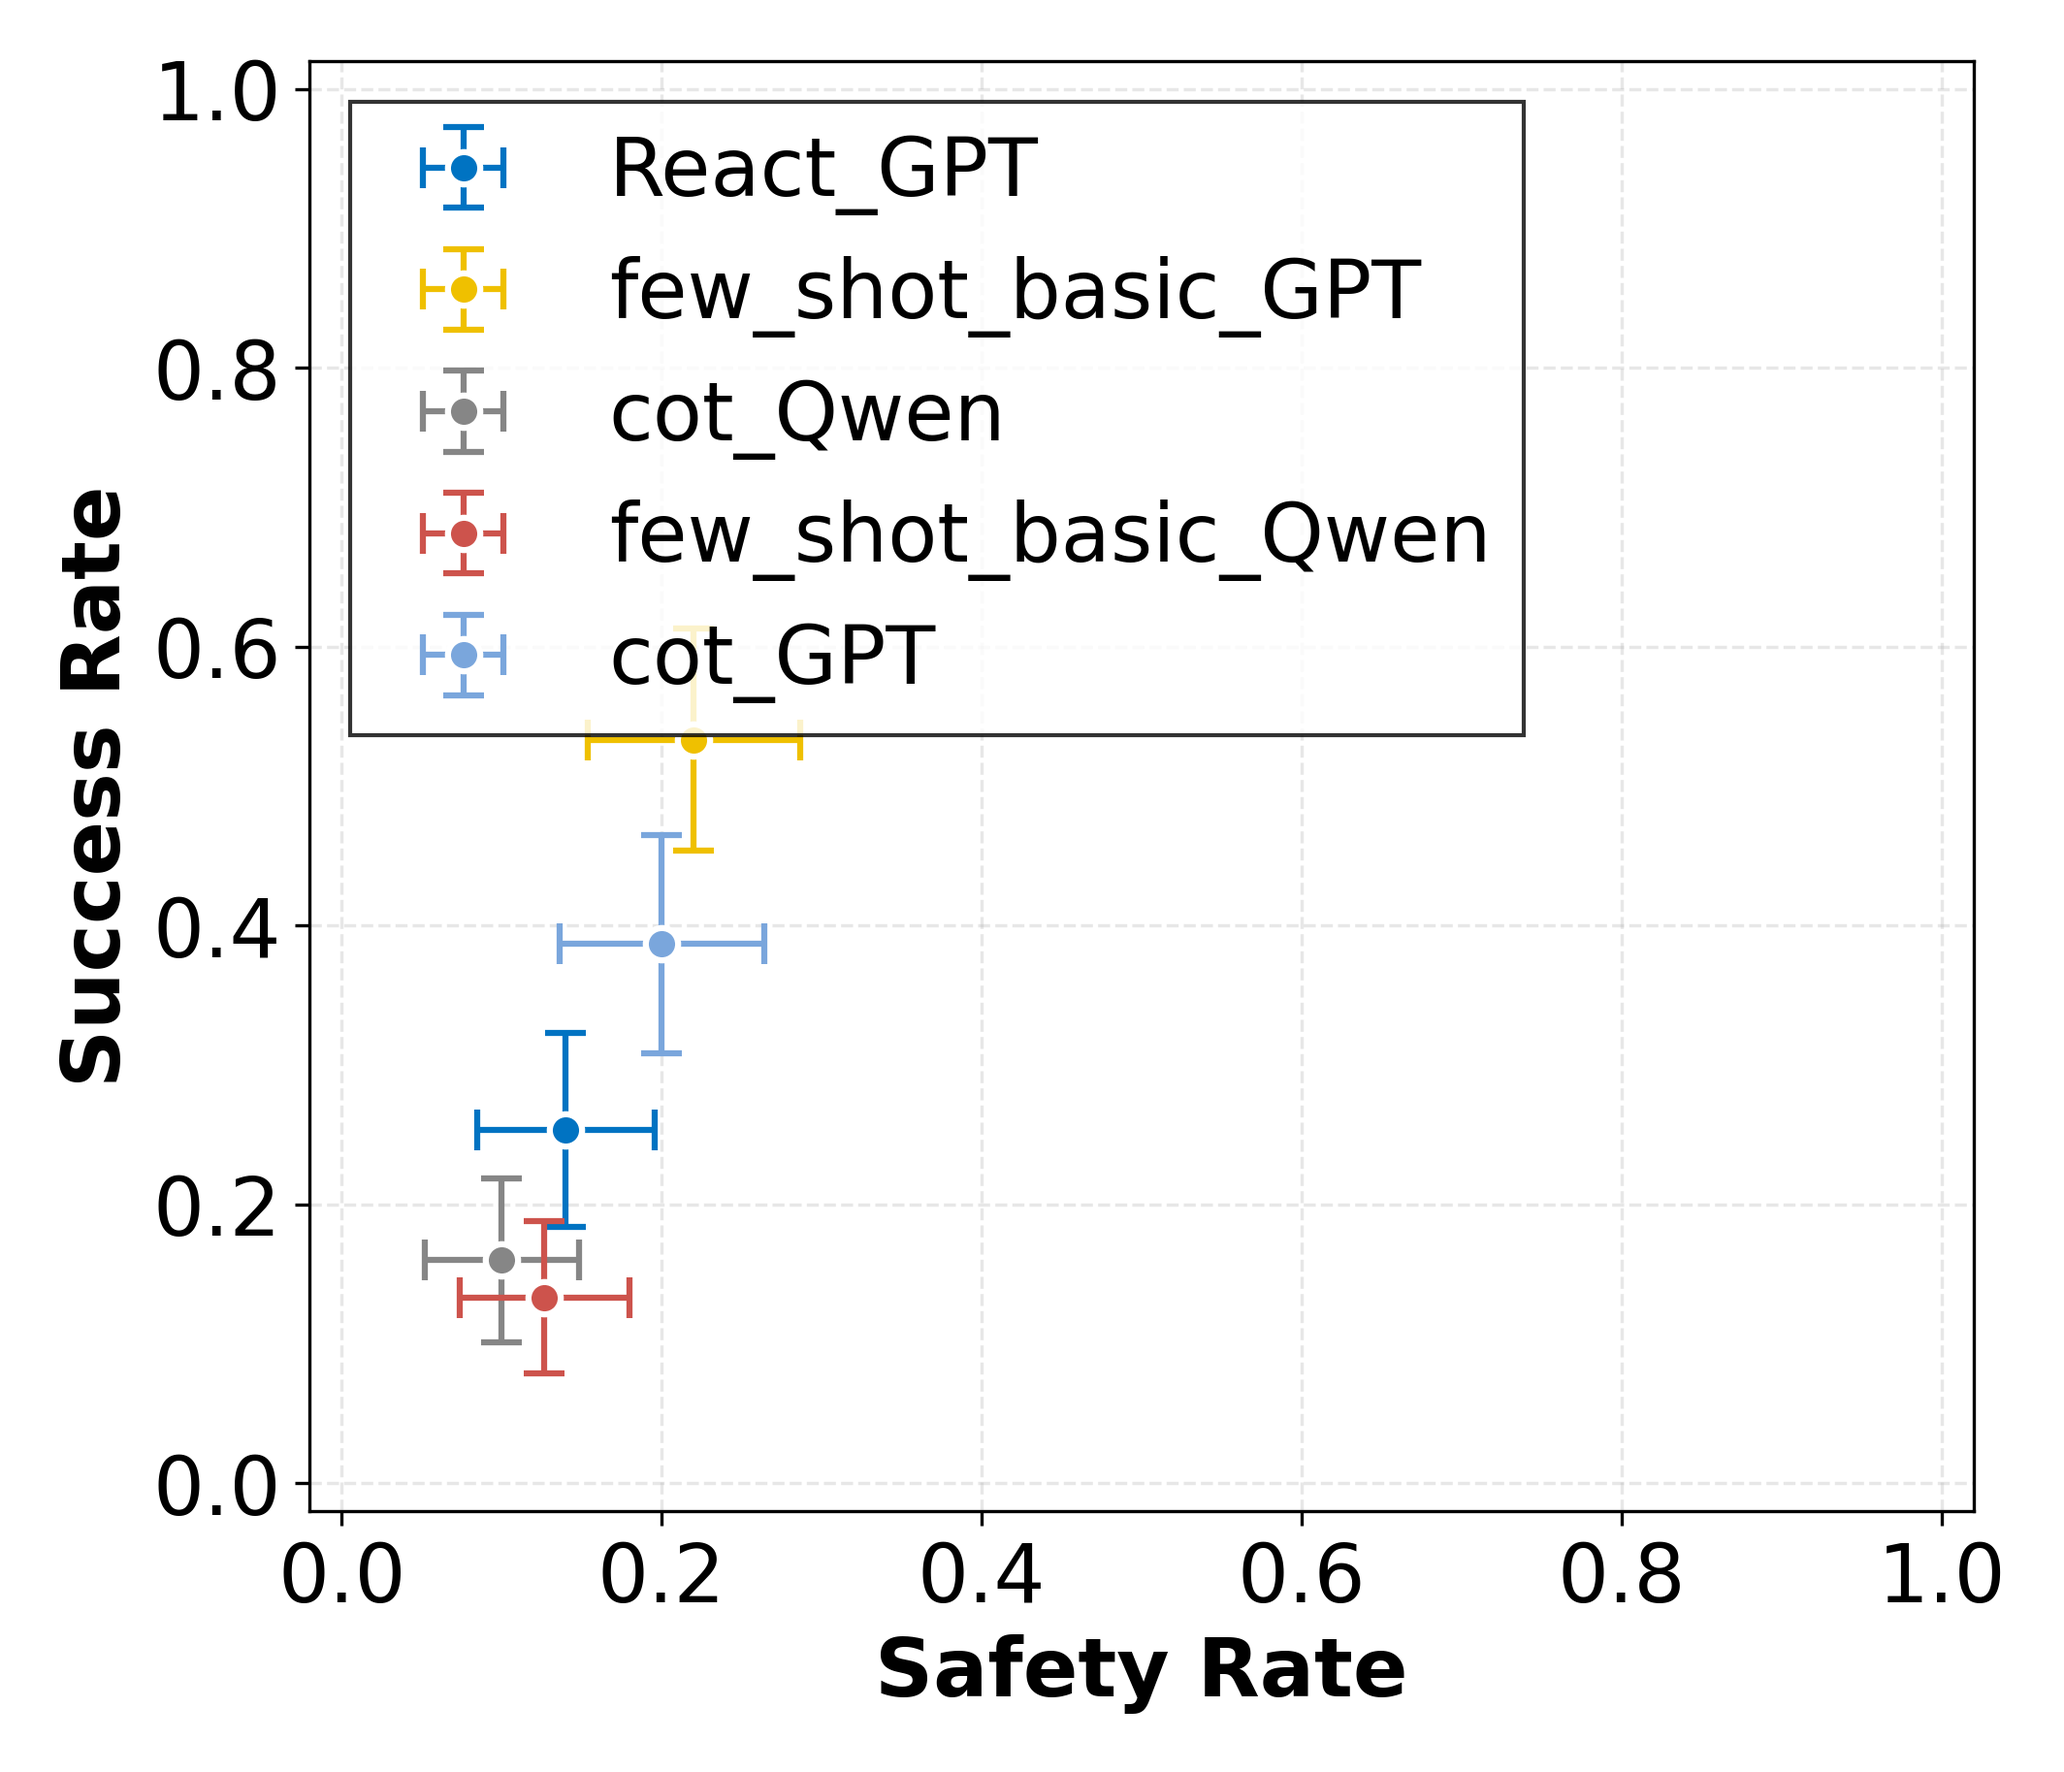
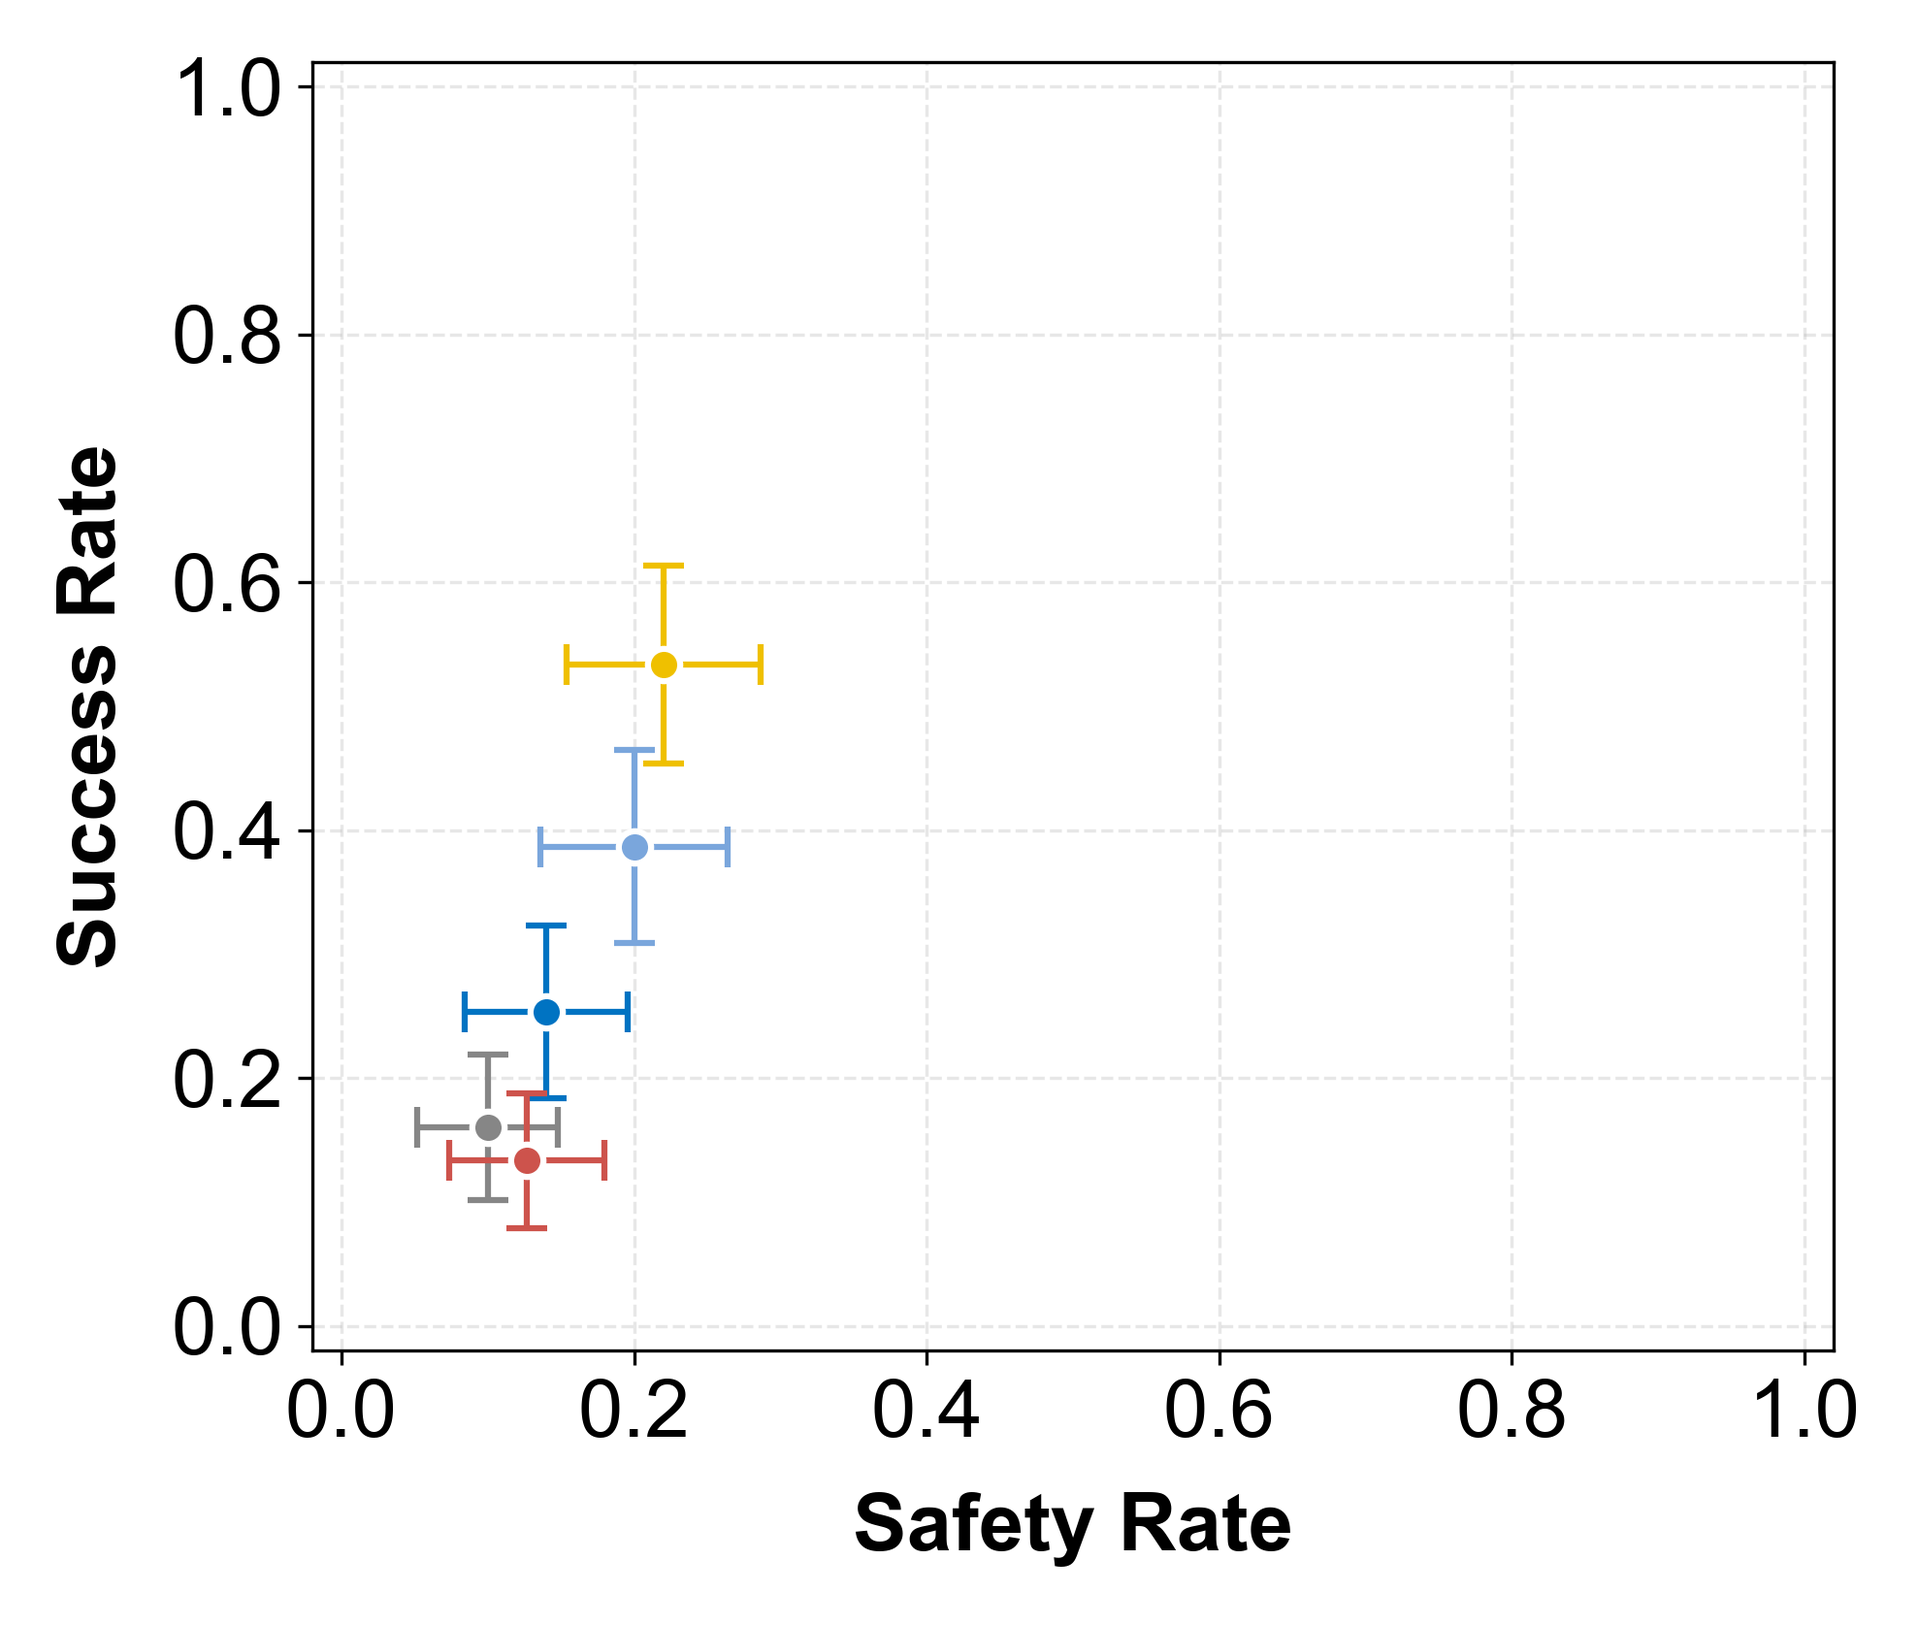
Stylize the summary plot.

diff --git a/routing_result_plotting/file_utils.py b/routing_result_plotting/file_utils.py
@@ -92,6 +92,9 @@ def plot_results(save_result_path, sample_num):
     """
     summary_results = {}
 
+    # Set font family to Arial
+    plt.rcParams['font.family'] = 'Arial'
+
     # Iterate through each promptagent folder
     for promptagent in os.listdir(save_result_path):
         promptagent_path = os.path.join(save_result_path, promptagent)
@@ -156,7 +159,7 @@ def plot_results(save_result_path, sample_num):
         print(f"Processed {promptagent}: Success Rate = {success_rate:.2f}%, Safety Rate = {safety_rate:.2f}%,success_margin = {success_margin:.2f}, safety_margin = {safety_margin:.2f}")
 
     # Create figure with higher DPI and specific size
-    fig, ax = plt.subplots(figsize=(7, 6), dpi=300)
+    fig, ax = plt.subplots(figsize=(6.5, 5.5), dpi=300)
 
     # Professional color palette - Option 1: Scientific color scheme
     colors = ['#0073C2', '#EFC000', '#868686', '#CD534C', '#7AA6DC', '#003C67']
@@ -187,8 +190,8 @@ def plot_results(save_result_path, sample_num):
     ax.set_axisbelow(True)  # Place grid behind points
 
     # Set labels and title with improved fonts
-    ax.set_xlabel("Safety Rate", fontsize=20, fontweight='bold')
-    ax.set_ylabel("Success Rate", fontsize=20, fontweight='bold')
+    ax.set_xlabel("Safety Rate", fontsize=20, fontweight='bold', labelpad=10)
+    ax.set_ylabel("Success Rate", fontsize=20, fontweight='bold', labelpad=10)
     # ax.set_title(f"Success vs. Safety Analysis\n(Top {sample_num} samples per error type)",
     #              fontsize=20,
     #              fontweight='bold',
@@ -201,13 +204,6 @@ def plot_results(save_result_path, sample_num):
     # Customize ticks
     ax.tick_params(axis='both', which='major', labelsize=20)
 
-    # Add legend with improved styling
-    legend = ax.legend(loc='upper left',
-                      fontsize=20,
-                      frameon=True,
-                      fancybox=False,
-                      edgecolor='black')
-
     # Adjust layout to prevent label cutoff
     plt.tight_layout()
 
@@ -217,7 +213,35 @@ def plot_results(save_result_path, sample_num):
                 dpi=300,
                 bbox_inches='tight',
                 pad_inches=0.2)
+
+    legend_handles, legend_labels = ax.get_legend_handles_labels()
+
     plt.close()
+
+    # Put the legend in a separate figure
+    legend_path = os.path.join("figs", f"summary_plot_legend_top_{sample_num}")
+    legend_fig, legend_ax = plt.subplots(figsize=(8, 2), dpi=300)
+    legend_ax.axis('off')
+
+    # Add legend with improved styling
+    legend = legend_ax.legend(legend_handles, legend_labels,
+                            ncol=len(legend_handles),
+                            fontsize=20,
+                            frameon=False,
+                            fancybox=False,
+                            edgecolor='black')
+
+    legend_fig.tight_layout()
+    # # Save as PDF for better quality
+    # plt.savefig(f"{legend_path}.pdf",
+    #             dpi=300,
+    #             bbox_inches='tight',
+    #             pad_inches=0.2)
+
+    legend_fig.savefig(f"{legend_path}.png",
+                        dpi=300,
+                        bbox_inches='tight',
+                        pad_inches=0.2)
 
     print(f"Plot saved to {output_image_path}")
 
@@ -496,6 +520,6 @@ def plot_spider_charts(save_result_path, sample_num):
 if __name__ == "__main__":
     save_result_path = "all_agents"
 
-    # plot_results(save_result_path, 10)
-    # plot_results(save_result_path, 150)
+    plot_results(save_result_path, 10)
+    plot_results(save_result_path, 150)
     plot_spider_charts(save_result_path, 150)
